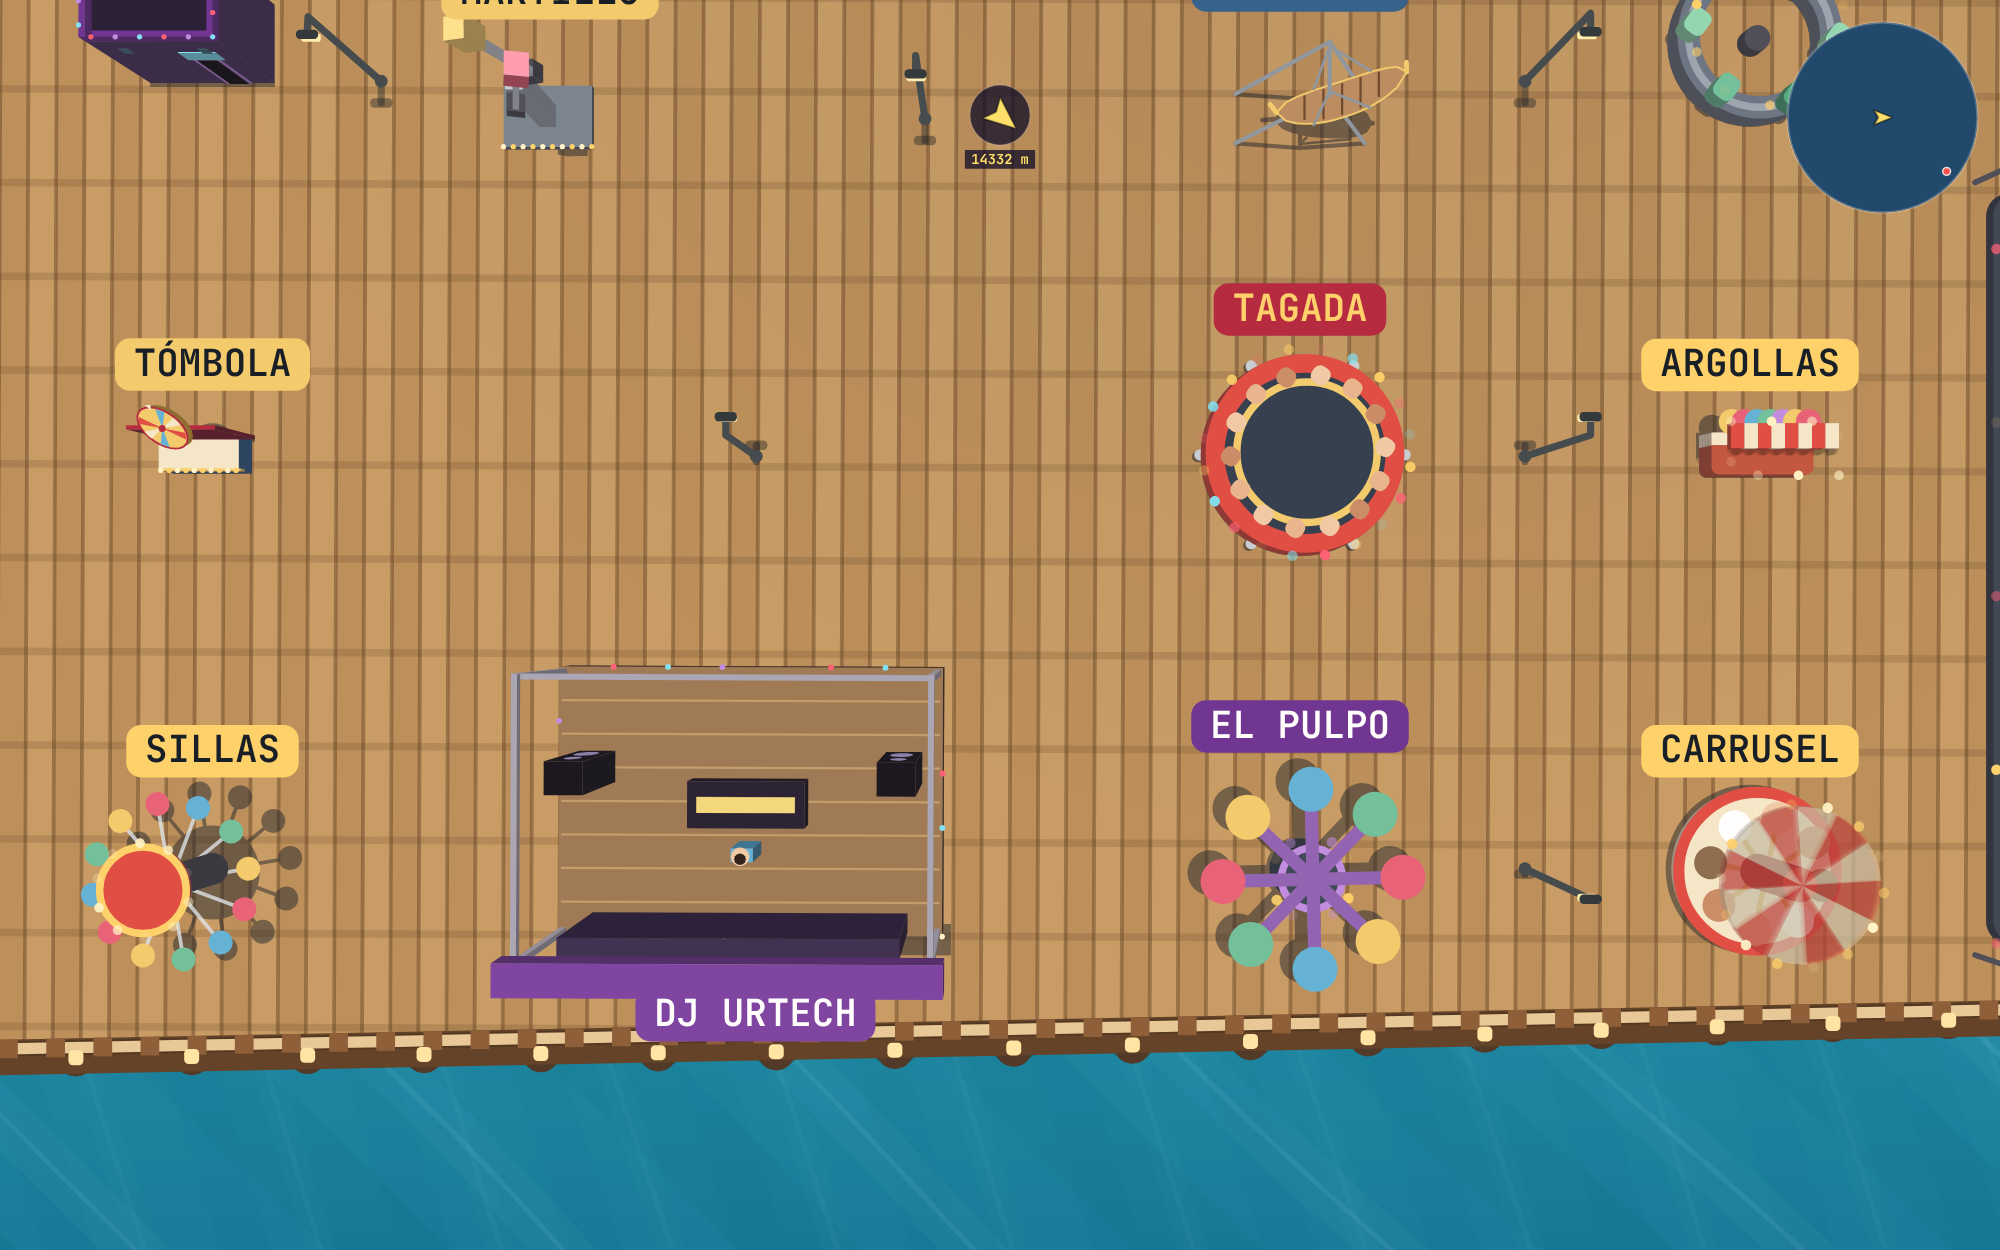
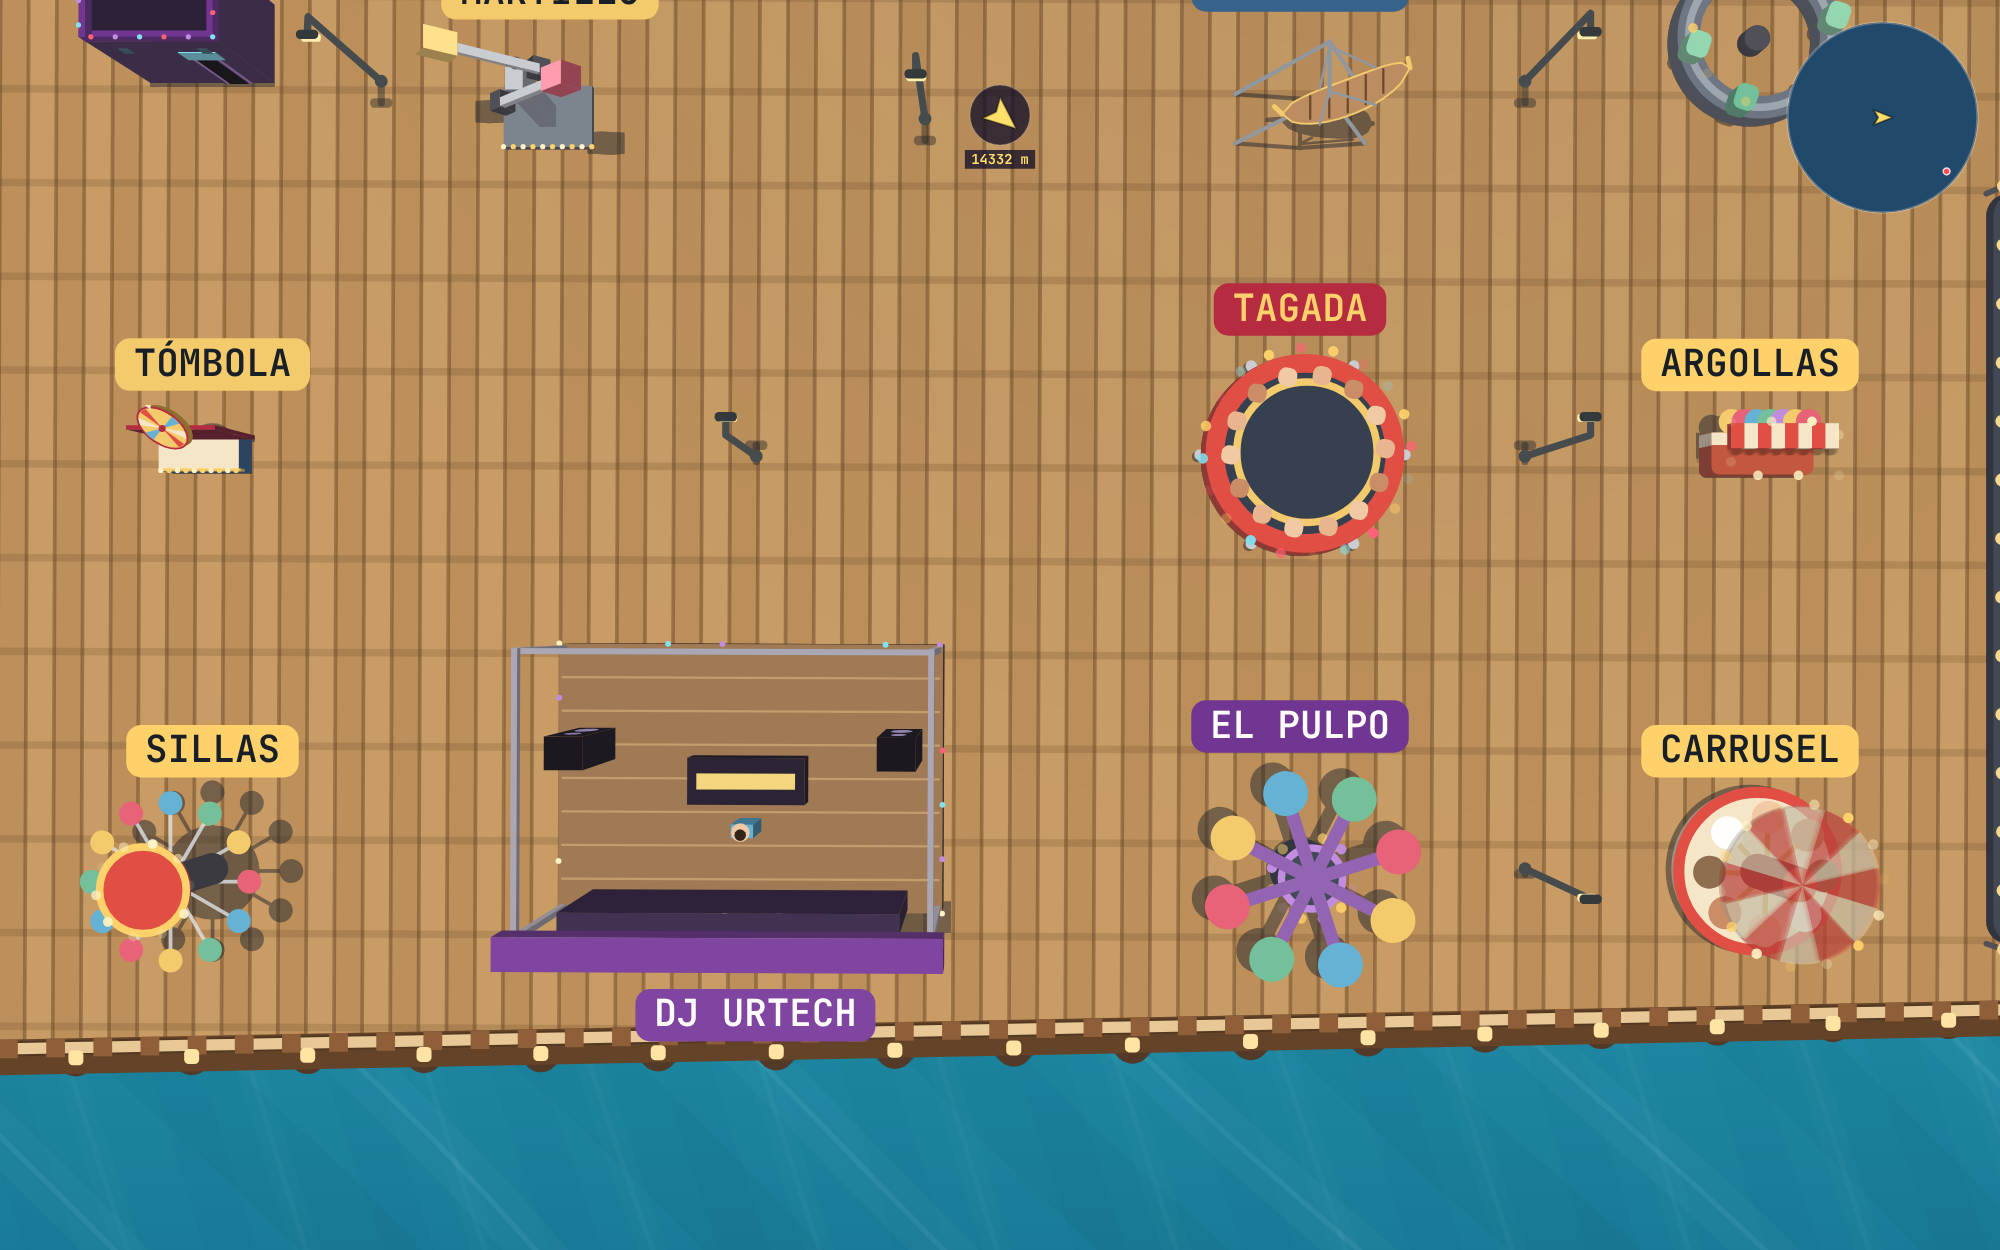
fix(feria): la guirnalda de los chocones sobre su baranda, sin doble fila ni tanto amarillo; la tarima del DJ libre del rótulo
- La guirnalda cuelga a 1,3 m sobre la baranda, de esquina a esquina de la pista:
  a 4,2 m la perspectiva la corría hacia afuera y del lado del mar quedaba sobre
  las luces de los pilotes.
- Fuera la fila de bombillos propia de la pista (eran dos filas); pozos de luz
  más tenues y más espaciados.
- view3d.originK corre la tarima del DJ hacia el público, lejos del rótulo.

Claude-Session: https://claude.ai/code/session_018GSydgtbAbdgpJPFkJ2EAM

diff --git a/src/render/c2d/attractions.js b/src/render/c2d/attractions.js
@@ -226,7 +226,10 @@ function drawRide3d(A, spec, r, t, ph) {
   // ── UNA FORMA: la geometría del juego, en metros, la arma `feriaRigs.js` ──
   const form = V.form && FERIA_FORMS[V.form];
   if (form) {
-    const run = (g, mode) => { const R = makeRig(g, A.x, A.y, rot, ppm, state.cam, mode, SHADE(), V.topM ?? V3.topM); form(R, { rM, t, ph, V, A }); R.flush(); };
+    // `originK`: la forma entera corrida dentro de su marco (el rótulo se queda donde está)
+    const [ou, ov] = (V.originK || [0, 0]).map((k) => k * r), cr = Math.cos(rot), sr = Math.sin(rot);
+    const ox = A.x + ou * cr - ov * sr, oy = A.y + ou * sr + ov * cr;
+    const run = (g, mode) => { const R = makeRig(g, ox, oy, rot, ppm, state.cam, mode, SHADE(), V.topM ?? V3.topM); form(R, { rM, t, ph, V, A }); R.flush(); };
     if (lit) withShadow(A, r, sun.alpha * V3.shadowAlpha, (g) => run(g, "sun"));
     queueBodyLike({ x: A.x, y: A.y, paint: () => { run(ctx, "cam"); drawSigns(); } });
     return;
